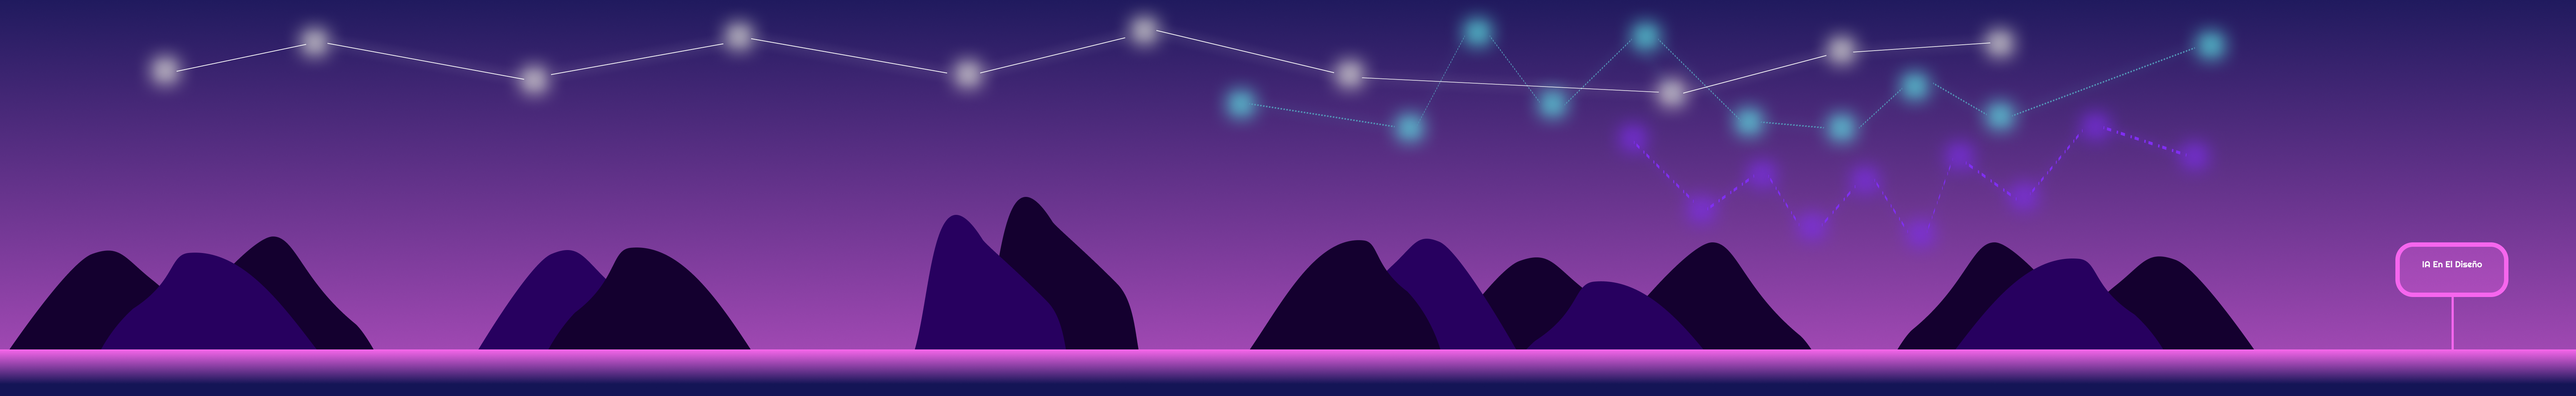
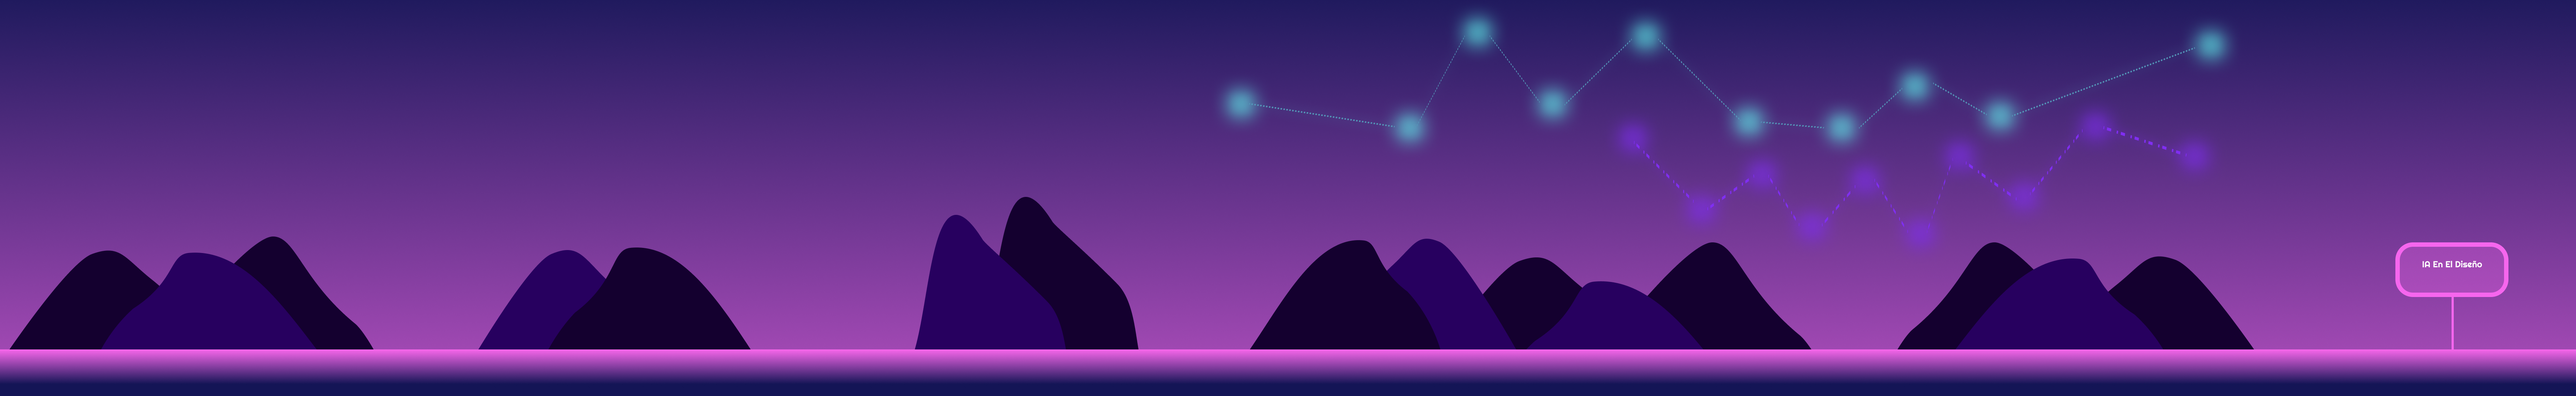
cambios

diff --git a/infografía.html b/infografía.html
@@ -16,7 +16,9 @@
 
           <div class="slide one"> 
 
-            <span class="line l1"></span>
+            <span class="line l1"></span><span class="line l2"></span><span class="line l3"></span><span class="line l4"></span>
+            <span class="line l5"></span><span class="line l6"></span><span class="line l7"></span><span class="line l8"></span>
+            <span class="line l9"></span>
 
             <button class="btn-star star-1-1" id="open1"><img src="media/infografía/star 1.svg" alt=""></button>
             <button class="btn-star star-1-2" id="open2"><img src="media/infografía/star 1.svg" alt=""></button>
@@ -99,6 +101,37 @@
                     La computadora Deep Blue de IBM vence al campeón mundial de ajedrez Gary Kasparov.
                   </p>
                   <button id="close7" class="close">Cerrar</button>
+                </div>
+              </div>
+
+              <div id="modal_container8" class="modal-container">
+                <div class="modal1" id="modal8">
+                  <h3>2011</h3>
+                  <p>
+                    Se lanza el asistente personal inteligente, Siri, para los dispositivos de Apple.
+                  </p>
+                  <button id="close8" class="close">Cerrar</button>
+                </div>
+              </div>
+
+
+              <div id="modal_container9" class="modal-container">
+                <div class="modal1" id="modal9">
+                  <h3>2016</h3>
+                  <p>
+                    AlphaGo de Google vence al campeón mundial de Go, Lee Sedol.
+                  </p>
+                  <button id="close9" class="close">Cerrar</button>
+                </div>
+              </div>
+
+              <div id="modal_container10" class="modal-container">
+                <div class="modal1" id="modal10">
+                  <h3>2020</h3>
+                  <p>
+                    GPT-3 de OpenAI establece nuevos estándares en el procesamiento del lenguaje natural.
+                  </p>
+                  <button id="close10" class="close">Cerrar</button>
                 </div>
               </div>
 

diff --git a/css/style-infografía.css b/css/style-infografía.css
@@ -67,19 +67,6 @@ body {
     cursor: pointer;
   }
 
-  .line{
-    width: 200px;
-    height: 3px;
-    background-color: rgb(255, 0, 0);
-    position: absolute;
-  }
-
-  .l1{
-    top: 100px;
-    left: 280px;
-    transform: rotate(-16deg);
-  }
-
   .star-1-1{
     top: 60px;
     left: 190px;
@@ -130,6 +117,75 @@ body {
     left: 3040px;
   }
 
+
+  .line{
+    height: 2px;
+    background-color: rgb(255, 255, 255);
+    position: absolute;
+  }
+
+  .l1{
+    width: 200px;
+    top: 90px;
+    left: 270px;
+    transform: rotate(-14deg);
+  }
+
+  .l2{
+    width: 310px;
+    top: 90px;
+    left: 500px;
+    transform: rotate(11deg);
+  }
+
+   .l3{
+    width: 280px;
+    top: 90px;
+    left: 850px;
+    transform: rotate(-12deg);
+  }
+
+  .l4{
+    width: 310px;
+    top: 90px;
+    left: 1170px;
+    transform: rotate(12deg);
+  }
+
+  .l5{
+    width: 230px;
+    top: 100px;
+    left: 1530px;
+    transform: rotate(-13deg);
+  }
+
+  .l6{
+    width: 280px;
+    top: 100px;
+    left: 1790px;
+    transform: rotate(11deg);
+  }
+
+  .l7{
+    width: 440px;
+    top: 145px;
+    left: 2130px;
+    transform: rotate(4deg);
+  }
+
+  .l8{
+    width: 220px;
+    top: 130px;
+    left: 2620px;
+    transform: rotate(-16deg);
+  }
+
+  .l9{
+    width: 200px;
+    top: 80px;
+    left: 2880px;
+    transform: rotate(-5deg);
+  }
 
 
   /*================VENTANA MODAL================*/
@@ -185,36 +241,51 @@ body {
 }
 
 #modal1{
-  top: 190px;
-  left: 50px;
+  top: 150px;
+  left: 60px;
 }
 
 #modal2{
-  top: 150px;
-  left: 400px;
+  top: 120px;
+  left: 300px;
 }
 
 #modal3{
-  top: 200px;
-  left: 800px;
+  top: 165px;
+  left: 650px;
 }
 
 #modal4{
-  top: 130px;
-  left: 1160px;
+  top: 110px;
+  left: 980px;
 }
 
 #modal5{
-  top: 180px;
-  left: 1600px;
+  top: 160px;
+  left: 1330px;
 }
 
 #modal6{
-  top: 120px;
-  left: 1900px;
+  top: 100px;
+  left: 1600px;
 }
 
 #modal7{
-  top: 180px;
-  left: 2300px;
+  top: 160px;
+  left: 1900px;
+}
+
+#modal8{
+  top: 185px;
+  left: 2420px;
+}
+
+#modal9{
+  top: 135px;
+  left: 2700px;
+}
+
+#modal10{
+  top: 115px;
+  left: 2950px;
 }

diff --git a/js/popup.js b/js/popup.js
@@ -111,5 +111,35 @@
       modal_container8.classList.remove('show');
     });
     
+
+
+    //Modal 9
+    const open9 = document.getElementById('open9');
+    const modal_container9 = document.getElementById('modal_container9');
+    const close9 = document.getElementById('close9');
+    
+    open9.addEventListener('click', () => {
+      modal_container9.classList.add('show');  
+    });
+    
+    close9.addEventListener('click', () => {
+      modal_container9.classList.remove('show');
+    });
+    
+
+    //Modal 10
+    const open10 = document.getElementById('open10');
+    const modal_container10 = document.getElementById('modal_container10');
+    const close10 = document.getElementById('close10');
+    
+    open10.addEventListener('click', () => {
+      modal_container10.classList.add('show');  
+    });
+    
+    close10.addEventListener('click', () => {
+      modal_container10.classList.remove('show');
+    });
+    
+  
   
  
